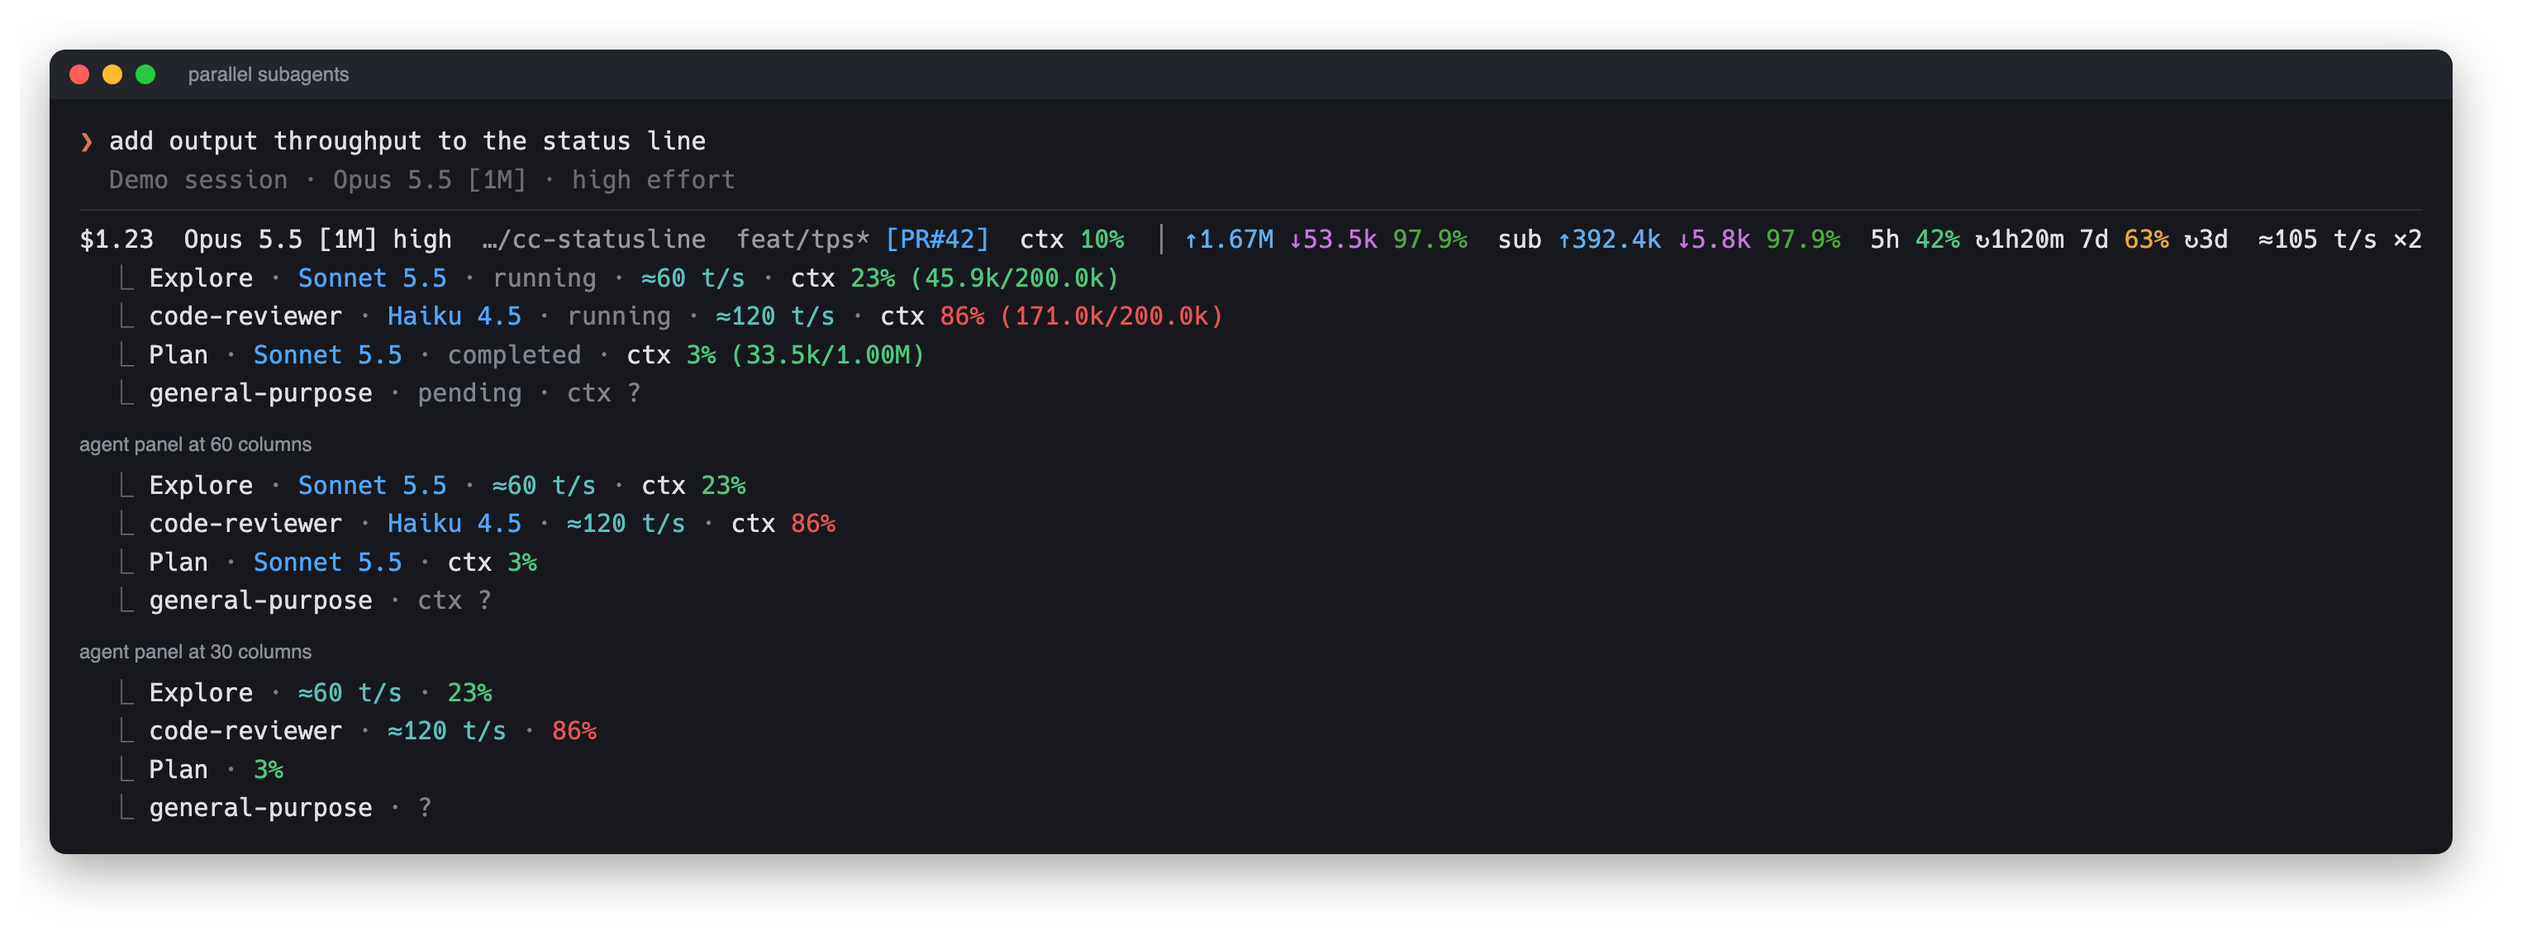
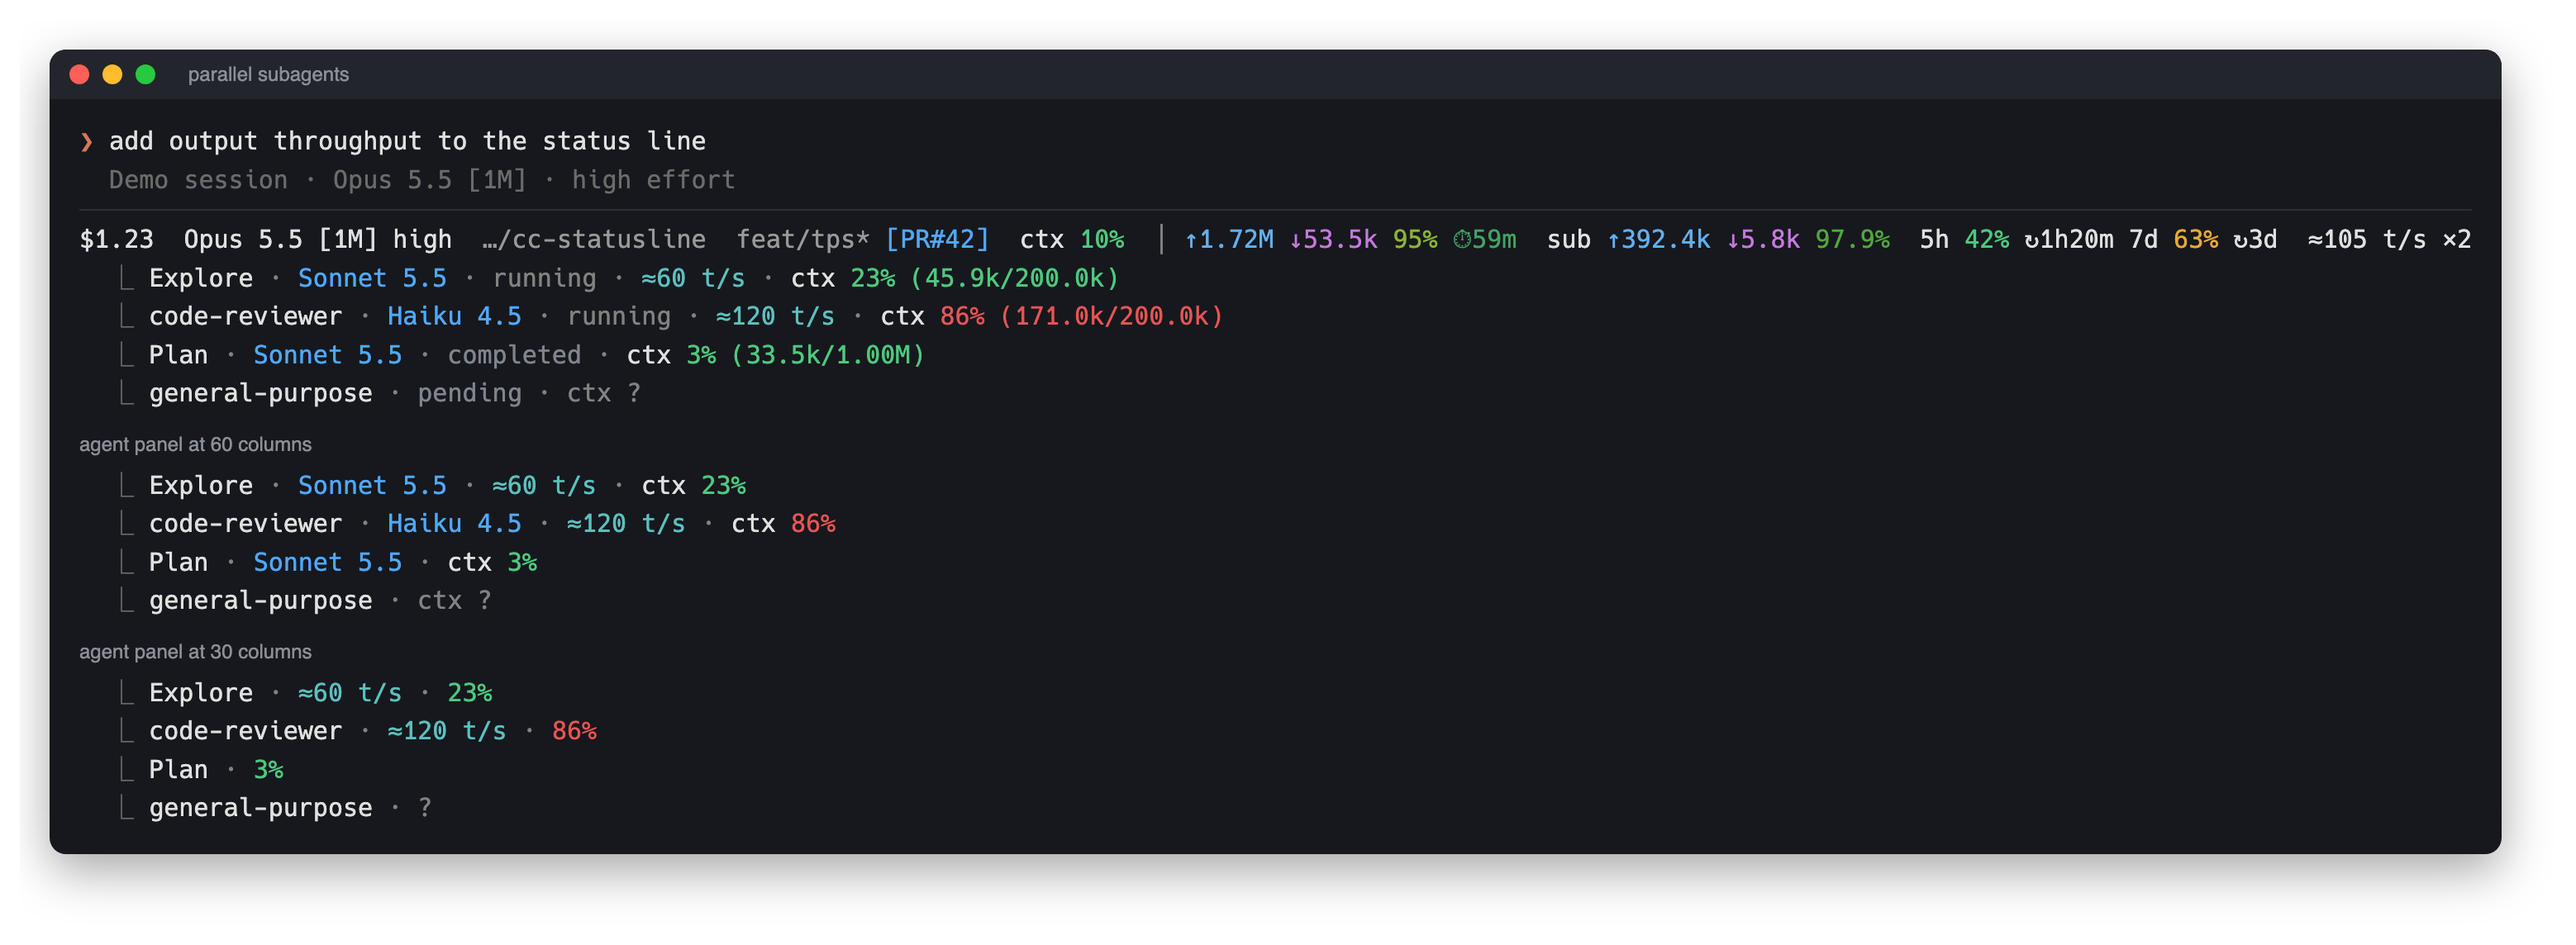
docs: show the cache countdown in README images

diff --git a/scripts/screenshots.py b/scripts/screenshots.py
@@ -70,10 +70,14 @@ def setup_home():
         def user(ago):
             return json.dumps({"type": "user", "sessionId": "session_demo", "timestamp": at(ago)}) + "\n"
         def message(ident, model, output, ago):
+            usage = {"input_tokens": 2100, "output_tokens": output, "cache_read_input_tokens": 96000}
+            if ident.startswith("main-"):
+                # A recorded 1h cache write drives the usage countdown.
+                usage.update({"cache_creation_input_tokens": 4000, "cache_creation":
+                              {"ephemeral_1h_input_tokens": 4000, "ephemeral_5m_input_tokens": 0}})
             return json.dumps({"type": "assistant", "sessionId": "session_demo",
                 "timestamp": at(ago), "message": {"id": ident, "model": model,
-                "usage": {"input_tokens": 2100, "output_tokens": output,
-                          "cache_read_input_tokens": 96000}}}) + "\n"
+                "usage": usage}}) + "\n"
         # Timestamps drive TPS: two agents and the main loop are mid-request.
         with open(transcript, "w") as f:
             for i in range(12):
